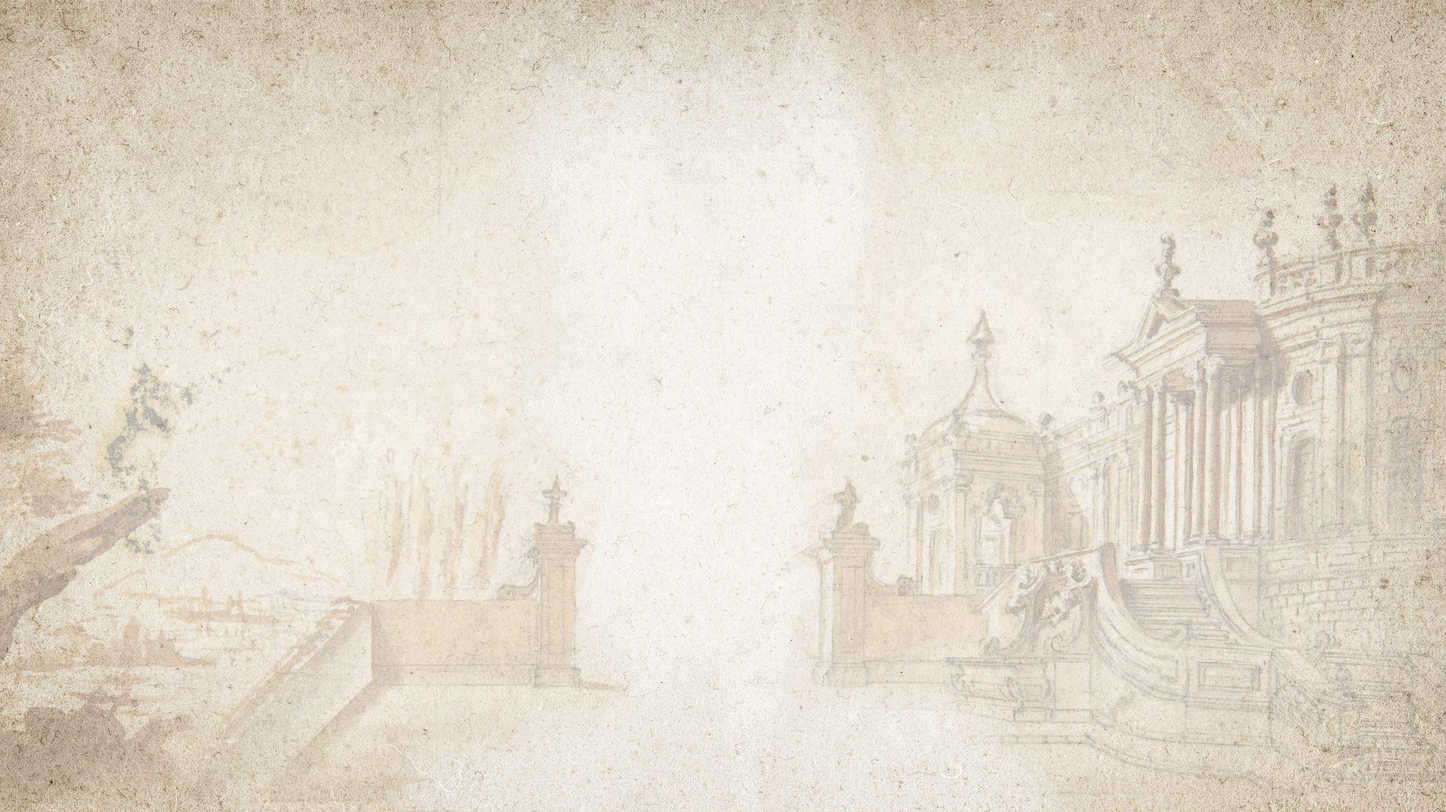
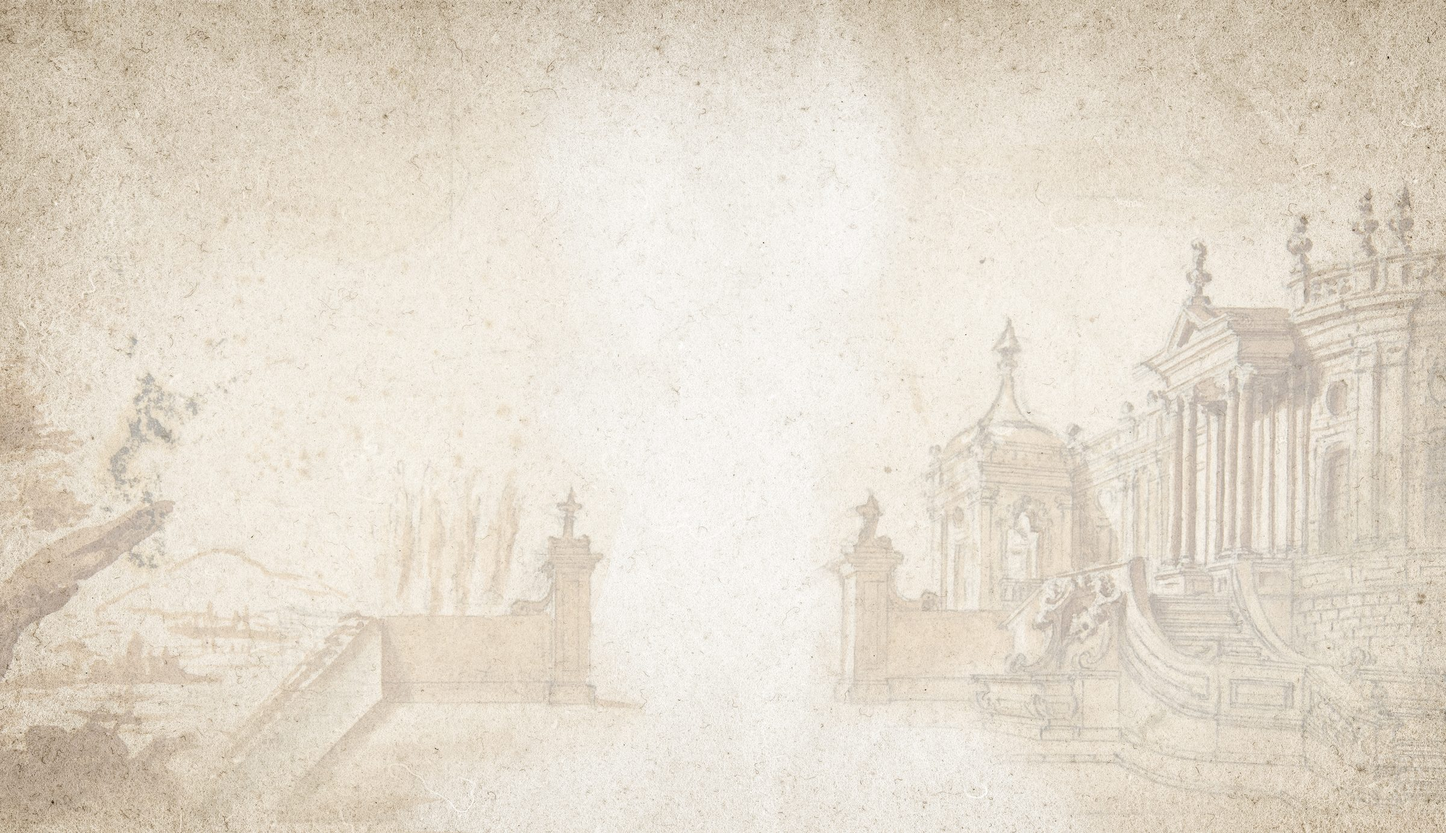
feat(landing): portal-centered background, partners teased at the fold
Recrop the composited background so the portal opening is the exact
horizontal center of the asset: the menu card goes back to true
margin-auto centering (aligned with the planet) and lands in the
portal on every viewport, without CSS offsets.

First screen becomes a 100vh flex column: the first partner logo is
pinned at the bottom of the fold with a parchment « Partenaires »
pill under it, in flow, as a scroll cue. Short-screen media query
(<=820px high) tightens the hero so the strip fits on 768p laptops.

Discord moves from the floating corner chip into the menu card
(after Aide Wiki, opens in a new tab); the Discord partner banner is
removed. Background image URLs gain ?v= params so asset regeneration
busts browser caches.

diff --git a/css/landing.css b/css/landing.css
@@ -32,7 +32,7 @@ body {
     /* Fond de la maquette composité tel quel (papier + dessin
      * d'architecture pleine largeur, opacité du calque respectée) :
      * une seule image cohérente, comme dans le PSD. */
-    background: #e7ded0 url('../img/ui/paper/landing-bg.jpg') center / cover fixed;
+    background: #e7ded0 url('../img/ui/paper/landing-bg.jpg?v=20260711') center / cover fixed;
     color: var(--lp-ink);
 }
 
@@ -95,19 +95,17 @@ body::before {
 
 /* ---------- Carte de menu ---------- */
 
-/* La carte épouse le portail du dessin : l'ouverture entre les deux
- * piliers fait ~12.5% de la largeur de l'image, centrée à ~48.7% —
- * largeur en vw et léger décalage à gauche pour tomber dedans
- * (le fond est en cover, les proportions suivent l'écran 16:9). */
+/* La carte épouse le portail du dessin (l'ouverture entre les deux
+ * piliers, ~12.5% de la largeur de l'image). Le portail est centré
+ * DANS l'image de fond (asset recadré) : carte centrée = carte dans
+ * le portail, alignée avec la planète, sur tous les écrans. */
 #index-menu {
     background: var(--lp-veil);
     border: 1px solid var(--lp-line-soft);
     border-radius: 10px;
     width: clamp(190px, 13.5vw, 264px);
     padding: 8px 14px;
-    margin: 3.5vh auto 4vh;
-    position: relative;
-    left: -1.3vw;
+    margin: 3.5vh auto 2vh;
     animation: none;
 }
 
@@ -158,6 +156,22 @@ body::before {
     margin: 0 auto;
     background: url('../img/ui/paper/flourish-sep.png') center / contain no-repeat;
     opacity: 0.85;
+}
+
+/* Écrans courts (portables 768p) : héros légèrement resserré pour
+ * que logo partenaire + pastille tiennent au bas du premier écran. */
+@media (max-height: 820px) {
+    #landing-hero {
+        margin-top: 1.5vh;
+    }
+
+    #landing-hero img {
+        width: min(52vw, 26vh, 300px);
+    }
+
+    #index-menu {
+        margin: 2vh auto 1.5vh;
+    }
 }
 
 /* ---------- Devise sous la planète ---------- */
@@ -213,6 +227,29 @@ body::before {
 
 /* ---------- Partenaires : bandeaux fondus dans le papier ---------- */
 
+/* Premier écran : colonne pleine hauteur — héros et carte en tête,
+ * le premier logo partenaire épinglé en bas du pli comme amorce de
+ * la suite, le repère « Partenaires » (fixe) juste dessous. */
+#landing-fold {
+    display: flex;
+    flex-direction: column;
+    min-height: 100vh;
+    min-height: 100dvh;
+}
+
+#index-partenaires {
+    /* Poussé au bas du premier écran, la pastille suit dans le flux */
+    margin-top: auto;
+    padding-top: 4px;
+    line-height: 0;
+}
+
+/* Logo compact pour tenir dans la bande du pli, même en 768 de haut */
+#index-partenaires img {
+    max-height: 46px;
+    width: auto;
+}
+
 #index-partenaires img,
 body > a > img[src*="partenaires"] {
     filter: sepia(0.35) saturate(0.8);
@@ -254,8 +291,7 @@ body > a:hover > img[src*="partenaires"] {
 /* ---------- Mobile : les chips quittent le coin du héros ---------- */
 
 @media (max-width: 700px) {
-    #index-changelog,
-    #index-discord {
+    #index-changelog {
         position: static;
         margin: 8px auto 0;
         text-align: center;
@@ -265,14 +301,72 @@ body > a:hover > img[src*="partenaires"] {
      * n'est plus un repère, la carte reprend une largeur confortable. */
     #index-menu {
         width: min(76vw, 300px);
-        left: 0;
     }
 }
 
-/* Changelog et Discord : chips papier discrètes au lieu des bandeaux
- * noirs monospace, au-dessus de l'ornement du coin droit. */
-#index-changelog,
-#index-discord {
+/* ---------- Indice de défilement vers les partenaires ---------- */
+
+/* Les partenaires vivent sous la ligne de flottaison : petit repère
+ * fixe en bas d'écran, dans l'esprit gravé (devise + chevron), qui
+ * s'efface dès que le joueur descend (JS scripts/index.php). */
+/* Pastille parchemin dans le flux, sous le premier logo partenaire :
+ * elle défile avec la page, aucun recouvrement possible. */
+#landing-scroll-hint {
+    display: inline-flex;
+    align-items: center;
+    gap: 9px;
+    align-self: center;
+    margin: 4px auto 6px;
+    padding: 4px 14px;
+    background: #f6ecd8;
+    border: 1px solid var(--lp-line-soft);
+    border-radius: 999px;
+    box-shadow: 0 1px 4px rgba(0, 0, 0, 0.15);
+    font-family: 'DM Serif Display', serif;
+    font-style: italic;
+    font-size: 0.85em;
+    color: var(--lp-ink);
+    text-decoration: none;
+    opacity: 0.9;
+    transition: opacity 0.3s ease;
+}
+
+#landing-scroll-hint:hover {
+    opacity: 1;
+    color: var(--lp-bronze);
+}
+
+/* Chevron gravé (bordures pivotées : pas d'asset, encre pure) */
+#landing-scroll-hint::after {
+    content: "";
+    width: 7px;
+    height: 7px;
+    margin-top: -4px;
+    border-right: 2px solid var(--lp-bronze);
+    border-bottom: 2px solid var(--lp-bronze);
+    transform: rotate(45deg);
+}
+
+@media (prefers-reduced-motion: no-preference) {
+    #landing-scroll-hint::after {
+        animation: lp-bob 2s ease-in-out infinite;
+    }
+
+    @keyframes lp-bob {
+        0%, 100% { transform: rotate(45deg) translate(0, 0); }
+        50% { transform: rotate(45deg) translate(3px, 3px); }
+    }
+}
+
+/* Le clic sur le repère glisse jusqu'aux partenaires */
+html {
+    scroll-behavior: smooth;
+}
+
+/* Changelog : chip papier discrète au lieu du bandeau noir monospace,
+ * au-dessus de l'ornement du coin droit. Le Discord a rejoint la
+ * carte de menu (entrée après le wiki). */
+#index-changelog {
     z-index: 1;
 }
 

diff --git a/scripts/index.php b/scripts/index.php
@@ -9,14 +9,20 @@ if(isset($_GET['resetPsw'])){
 
 /* Habillage papier & encre de la maquette graphiste : la bannière
  * cède la place au héros planète + titre Gloock (css/landing.css). */
-echo '<link rel="stylesheet" href="css/landing.css?v=20260710e" />';
+echo '<link rel="stylesheet" href="css/landing.css?v=20260711l" />';
 
 /* Fond filigrané « aootest » hors prod (variante _test du fond
  * composité de la maquette). */
 $paperBg = function_exists('aoo_paper_background') ? aoo_paper_background() : '/img/ui/paper/paper.jpg';
 if ($paperBg !== '/img/ui/paper/paper.jpg') {
-    echo '<style>body{background-image:url(\'/img/ui/paper/landing-bg_test.jpg\')}</style>';
+    echo '<style>body{background-image:url(\'/img/ui/paper/landing-bg_test.jpg?v=20260711\')}</style>';
 }
+
+/* Premier écran : héros + carte de menu, avec le premier logo
+ * partenaire épinglé en bas (css/landing.css #landing-fold) — il
+ * dépasse du pli, le repère « Partenaires » juste dessous, pour
+ * montrer que la page continue. */
+echo '<div id="landing-fold">';
 
 echo '<a href="index.php" id="landing-hero">'
     . '<img src="img/ui/paper/planet.png" alt="" />'
@@ -147,6 +153,8 @@ echo '
     echo '<a href="forum.php" class="index-button">Forum</a>';
     echo '<div class="menu-sep"></div>';
     echo '<a href="https://age-of-olympia.net/wiki/" class="index-button">Aide Wiki</a>';
+    echo '<div class="menu-sep"></div>';
+    echo '<a href="https://discord.gg/djPRYwEt8E" target="_blank" rel="noopener" class="index-button">Discord</a>';
 
     echo '
     <div class="text">
@@ -162,11 +170,18 @@ echo '
 
 
 
+/* Bas du premier écran : le premier logo partenaire amorce la suite
+ * de la page, le repère « Partenaires » juste dessous — dans le flux,
+ * il défile avec le contenu, aucun recouvrement possible. */
 echo '
 <div id="index-partenaires">
-    <a href="https://ame-jdr.net"><img src="img/ui/partenaires/ame-jdr.net.webp" /></a><br />
+    <a href="https://ame-jdr.net"><img src="img/ui/partenaires/ame-jdr.net.webp" /></a>
 </div>
 ';
+
+echo '<a id="landing-scroll-hint" href="#index-partenaires">Partenaires</a>';
+
+echo '</div>'; /* /#landing-fold */
 
 
 echo '<a href="https://aufonddutrou.fr/" title="Au fond du trou"><img src="img/ui/partenaires/afdt.gif" /></a>';
@@ -178,7 +193,6 @@ echo '<a href="https://www.tourdejeu.net/annu/fichejeu.php?id=14616" title="Tour
 echo '<br />';
 
 echo '<a href="https://www.les12singes.com/84-les-oublies"><img src="img/ui/partenaires/les_oublies.jpeg" /></a><br />';
-echo '<a href="https://discord.gg/Zhy9WxPHta"><img src="img/ui/partenaires/freedom-chill.png" /></a><br />';
 
 echo '<div style="font-size: 75%; color: #333;"><a href="https://votezpourmoi.com/">Votez Pour Moi</a>, Jeu de simulation de campagne électorale! (<a href="https://votezpourmoi.com/jeu-politique/but-jeu.php">en savoir plus</a>)</div>';
 
@@ -195,7 +209,8 @@ if($annonceJson){
     echo '<div id="index-changelog"><a class="install-app" href="https://age-of-olympia.net/wiki/doku.php?id=dev:changelog"><img src="img/ui/partenaires/code.gif" /> '. $annonceJson->text .' ('. $jour .' '. date('d/m/Y', $annonceJson->time) .')</a></div>';
 }
 
-echo '<div id="index-discord"><a class="install-app" style="background: #5865f2; color: white;" href="https://discord.gg/djPRYwEt8E"><img src="img/ui/partenaires/discord.webp" /> Discord </a></div>';
+/* Le Discord du jeu vit désormais dans la carte de menu (après le
+ * wiki) — plus de chip flottante en coin d'écran. */
 
 
 echo '<div class="preload"><img src="img/ui/bg/button2.png" /></div>';
